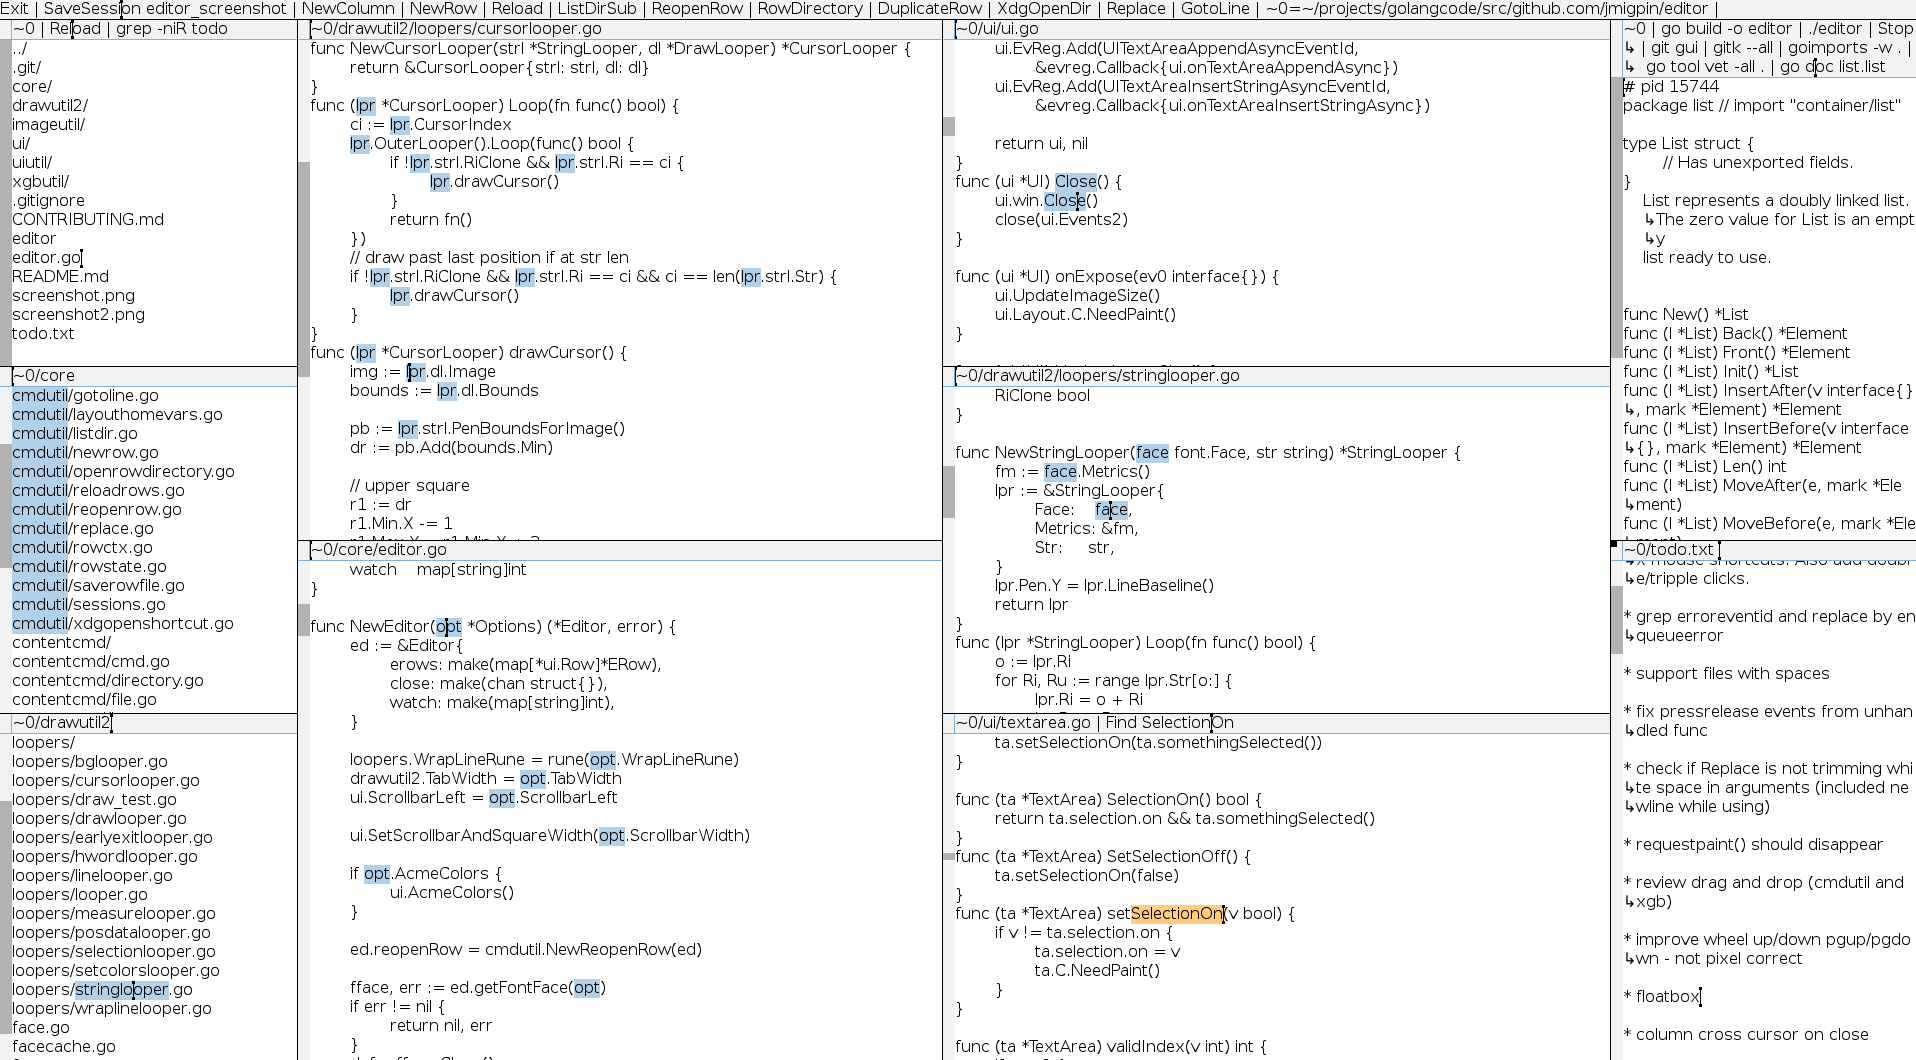
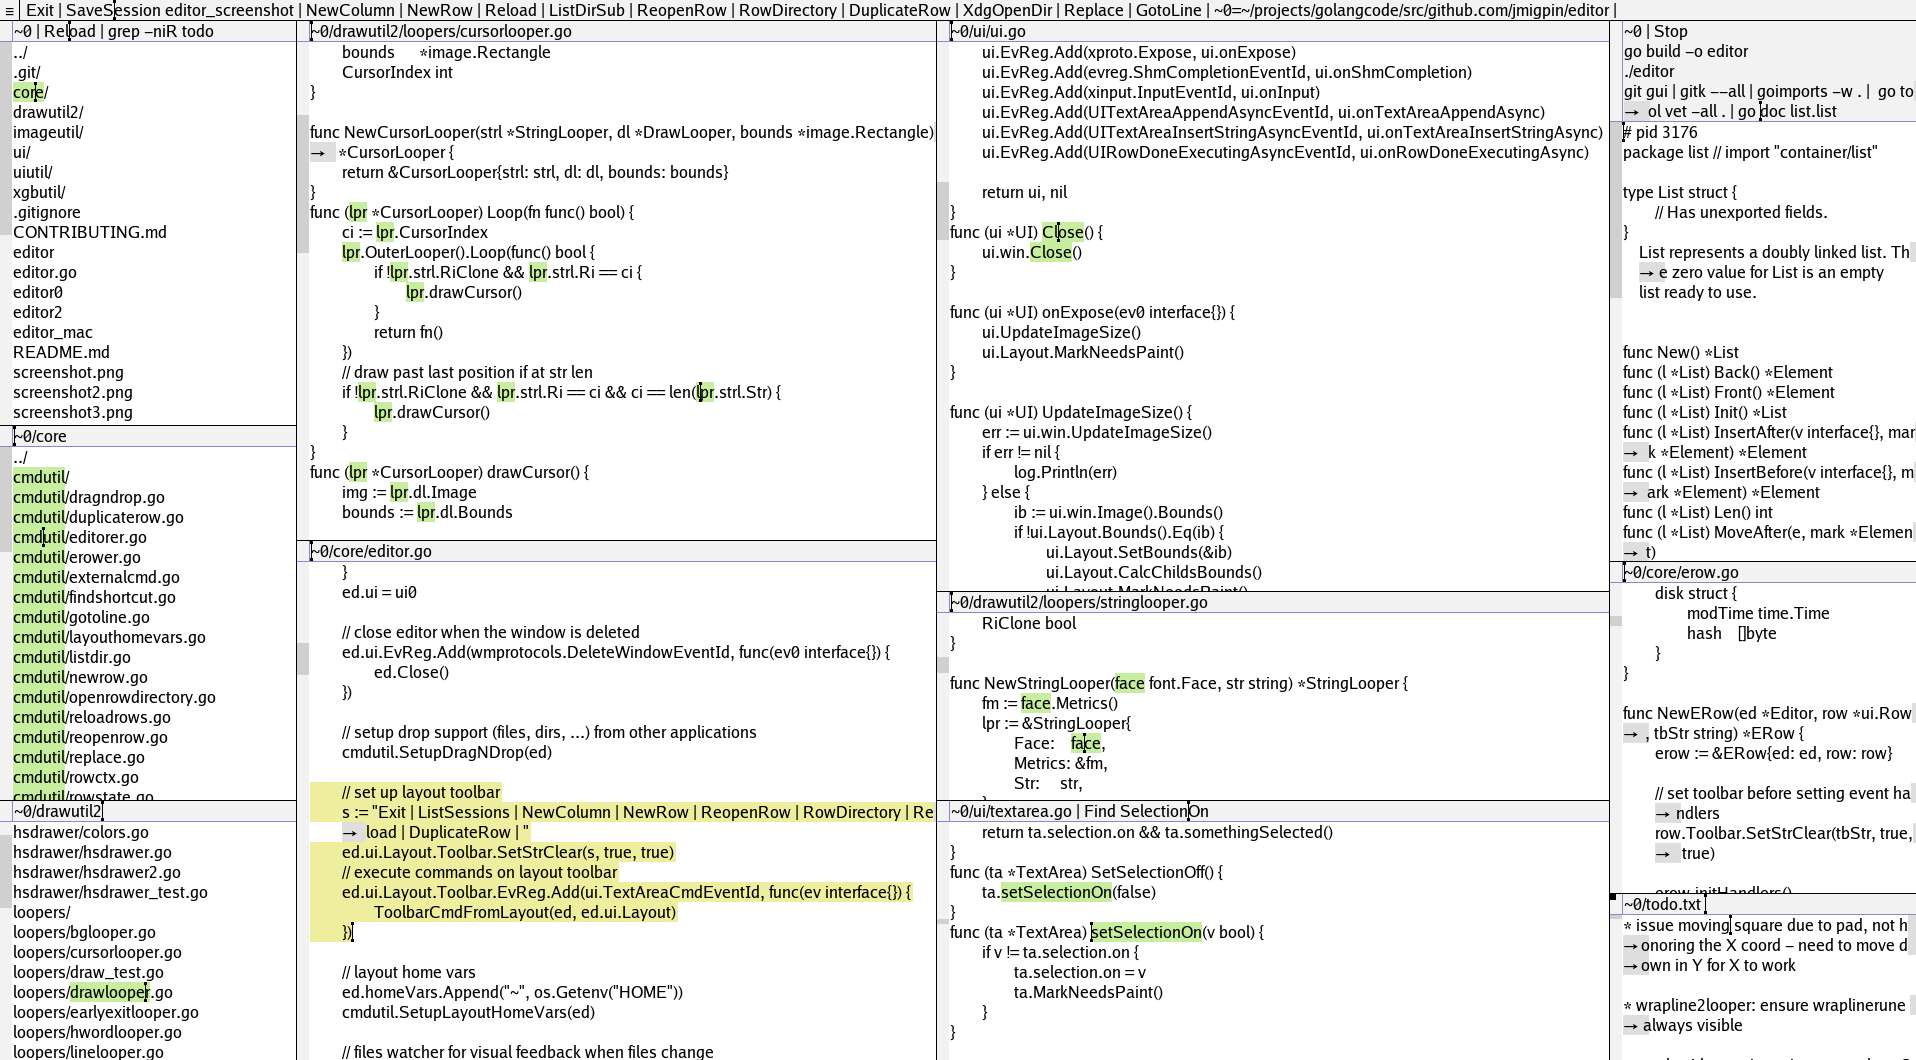
Update screenshots.

Changed region(s): [[0.0, 0.0, 1.0, 1.0], [0.6775, 0.4047, 0.739, 0.4358], [0.3695, 0.2491, 0.4003, 0.2802]]

diff --git a/README.md b/README.md
@@ -3,6 +3,8 @@
 Source code editor in pure Go.
 
 ![screenshot](./screenshot2.png)
+
+![screenshot](./screenshot3.png)
 Screenshot taken using DejaVuSans.ttf font.
 
 - This is a know-what-you're-doing source code editor
@@ -176,6 +178,6 @@ These commands run on a row toolbar, or on the top toolbar with the active-row.
 - Uses X shared memory extension (MIT-SHM). 
 - MacOS might need to have XQuartz installed.
 - Notable projects that inspired many features:
-- Oberon OS: https://www.youtube.com/watch?v=UTIJaKO0iqU 
-- Acme editor: https://www.youtube.com/watch?v=dP1xVpMPn8M 
+  - Oberon OS: https://www.youtube.com/watch?v=UTIJaKO0iqU 
+  - Acme editor: https://www.youtube.com/watch?v=dP1xVpMPn8M 
 
